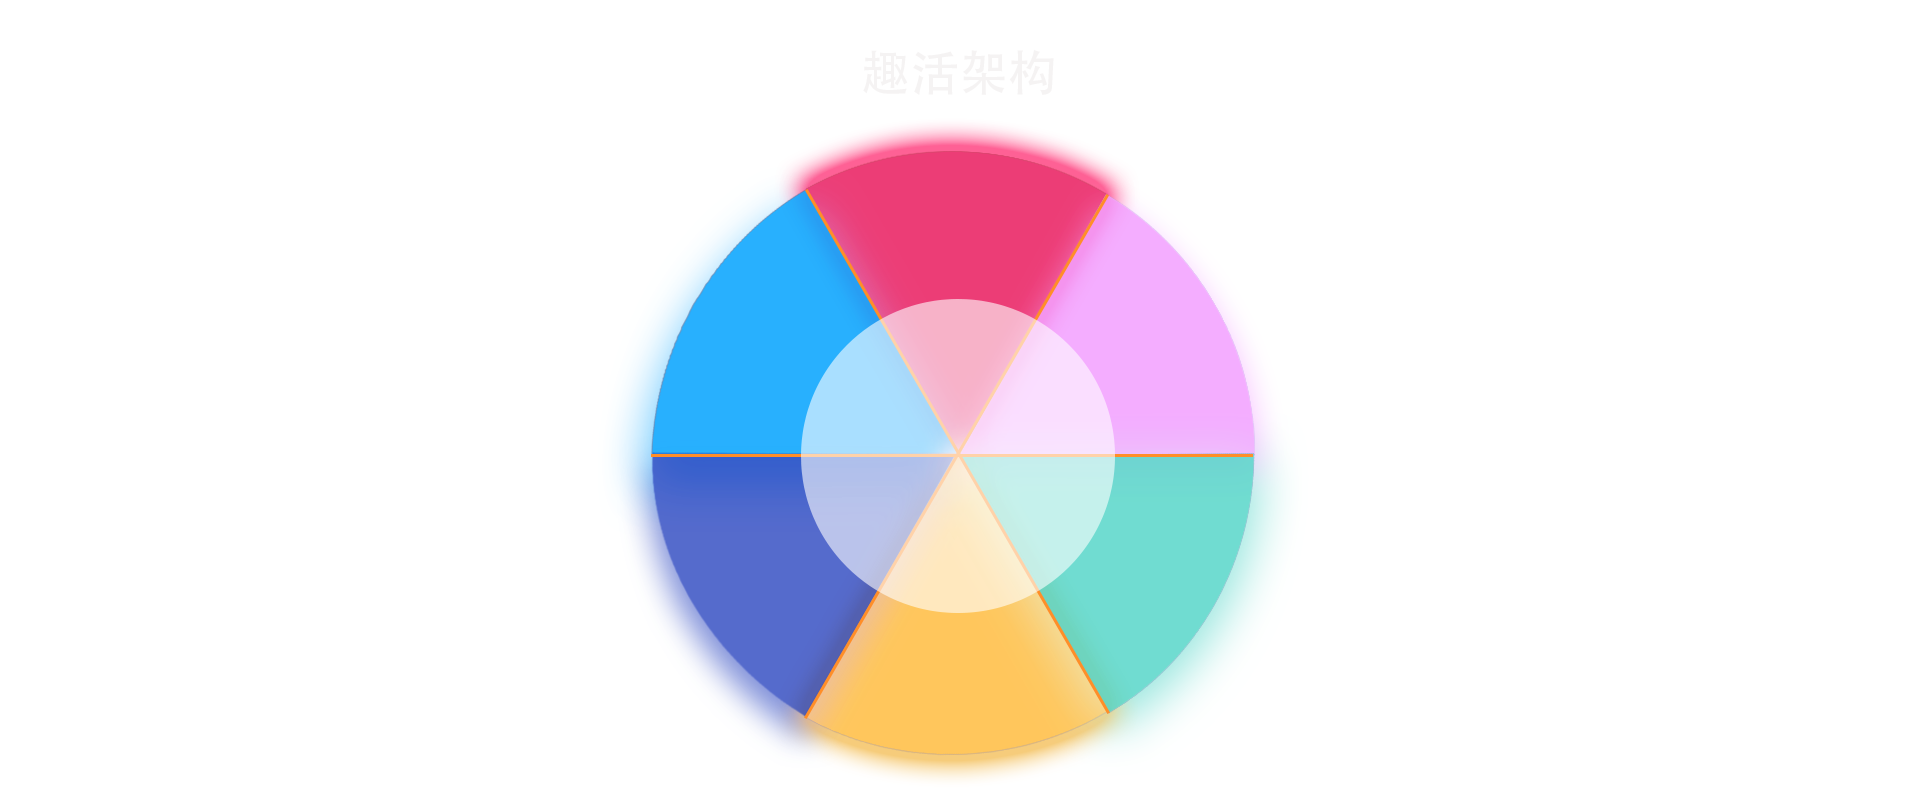
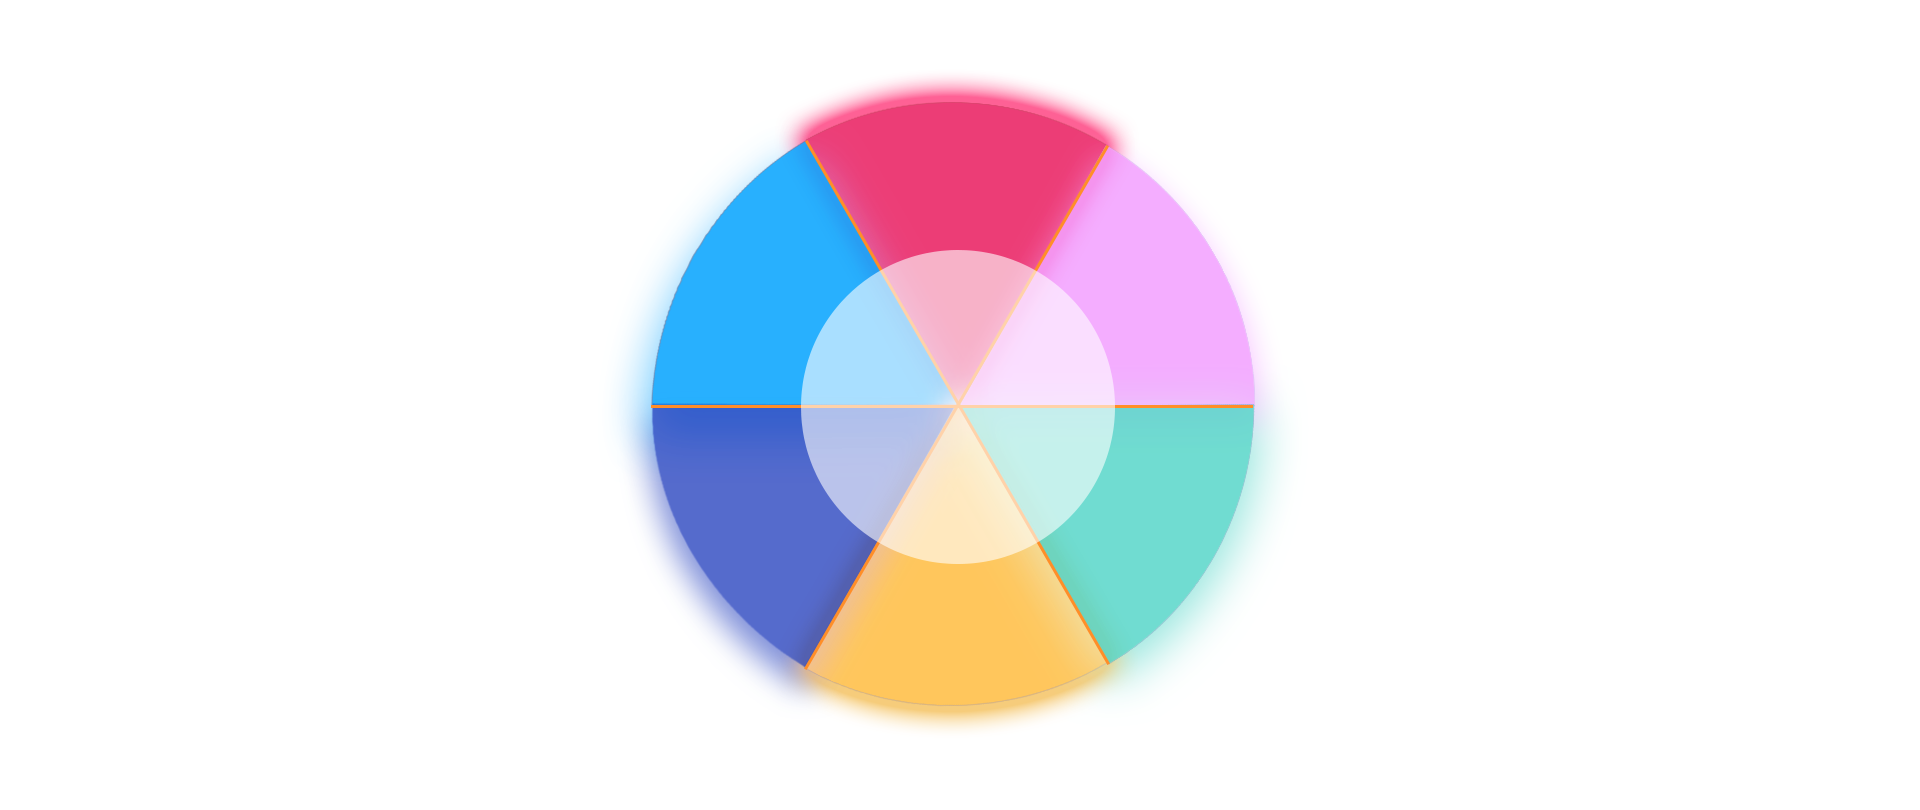
update

Changed region(s): [[0.3125, 0.0926, 0.6875, 0.9568]]

diff --git a/src/components/Architecture.vue b/src/components/Architecture.vue
@@ -4,12 +4,12 @@
       <p class="title">趣活架构</p>
       <div class="pic" style="background: url('static/images/intro/artic.png') no-repeat center center; background-size: cover;">
         <ul class="list">
-          <li v-for="(item, index) in list" :key="index" :style="`left: ${item.left}; top: ${item.top};`" :title="item.name">
+          <li @click="showTitle(item)" v-for="(item, index) in list" :key="index" :style="`left: ${item.left}; top: ${item.top};`" :title="item.title">
             {{item.name}}
-            <div @click="item.titleShow = !item.titleShow" v-show="item.titleShow">
-              {{item.title}}
-            </div>
           </li>
+          <!-- <div class="titleShow" v-for="(val, num) in list" :key="num" :style="`left: ${val.left}; top: ${val.top};`" v-show="titleShow">
+            {{titleDesc}}
+          </div> -->
         </ul>
       </div>
     </div>
@@ -23,18 +23,30 @@ export default {
   data() {
     return {
       isShow: false,
+      titleShow: false,
+      titleDesc: '',
       list: [
-        {name: '内容', left: '47%', top: '23%', title: '资深团队，专业内容', titleShow: false},
-        {name: '设计', left: '57%', top: '39%', title: '专注专向，追求真美', titleShow: false},
-        {name: '运营', left: '57%', top: '65%', title: '活动组织、赛事管理', titleShow: false},
-        {name: '策划', left: '47%', top: '80%', title: '客户至上，定制方案', titleShow: false},
-        {name: '销售', left: '37%', top: '66%', title: '联络客户，把握需求', titleShow: false},
-        {name: '媒介', left: '37%', top: '37%', title: '把控资源，挖掘价值', titleShow: false}
+        {name: '内容', left: '47%', top: '18%', title: '资深团队专业内容', titleLeft: '', titleTop: '', titleShow: false },
+        {name: '设计', left: '58%', top: '33%', title: '专注专向追求真美', titleLeft: '', titleTop: '', titleShow: false },
+        {name: '运营', left: '58%', top: '62%', title: '活动组织赛事管理', titleLeft: '', titleTop: '', titleShow: false },
+        {name: '策划', left: '47%', top: '76%', title: '客户至上定制方案', titleLeft: '', titleTop: '', titleShow: false },
+        {name: '销售', left: '37%', top: '62%', title: '联络客户把握需求', titleLeft: '', titleTop: '', titleShow: false },
+        {name: '媒介', left: '37%', top: '33%', title: '把控资源挖掘价值', titleLeft: '', titleTop: '', titleShow: false }
       ]
     }
   },
   mounted() {
     this.isShow = true;
+  },
+  methods: {
+    showTitle(item) {
+      [this.titleDesc, this.titleShow] = [item.title, true];
+      setTimeout(function () {
+        console.log(1);
+        this.titleDesc = '';
+        this.titleShow = false;
+      }, 2500);
+    }
   }
 }
 </script>
@@ -52,10 +64,11 @@ export default {
       font-size: 60px;
       font-weight: bold;
       color: #ffffff;
+      margin: 2% 0;
     }
     .pic{
       display: inline-block;
-      width: 50%;
+      width: 60%;
       height: 65%;
       position: relative;
     }
@@ -67,6 +80,15 @@ export default {
     .list li:hover{
       font-size: 1.3em;
       color: #ffffff;
+    }
+    .titleShow{
+      position: absolute;
+      font-size: 1.3em;
+      width: 4em;
+      top: 43%;
+      left: 44%;
+      color: #000000;
+      font-weight: bold;
     }
   }
 }

diff --git a/src/components/Resource.vue b/src/components/Resource.vue
@@ -35,20 +35,20 @@ export default {
     return {
       isShow: false,
       listOne: [
-        { name: '电竞活动', left: '78', top: '10' },
-        { name: '电竞媒体', left: '78', top: '30' },
-        { name: '电竞赛事', left: '78', top: '50' },
-        { name: '电竞俱乐部', left: '48', top: '22' },
+        { name: '游戏开发商', left: '78', top: '10' },
+        { name: '游戏代理商', left: '78', top: '35' },
+        { name: '游戏周边', left: '78', top: '60' },
+        { name: '游戏媒体', left: '48', top: '22' },
         { name: '游戏直播平台', left: '48', top: '48' },
-        { name: '电竞媒体', left: '18', top: '35' },
+        { name: '游戏KOL', left: '18', top: '35' },
       ],
       listTwo: [
-        { name: '游戏开发商', left: '5', top: '10' },
-        { name: '游戏代理商', left: '5', top: '30' },
-        { name: '游戏周边', left: '5', top: '50' },
-        { name: '游戏媒体', left: '35', top: '22' },
+        { name: '电竞活动', left: '5', top: '10' },
+        { name: '电竞媒体', left: '5', top: '35' },
+        { name: '电竞赛事', left: '5', top: '60' },
+        { name: '电竞俱乐部', left: '35', top: '22' },
         { name: '游戏直播平台', left: '35', top: '48' },
-        { name: '游戏KOL', left: '65', top: '35' }
+        { name: '电竞媒体', left: '65', top: '35' }
       ]
     }
   },
@@ -78,16 +78,15 @@ export default {
     }
     .title{
       font-size: 60px;
+      margin-top: 2%;
     }
     .desc{
       font-size: 28px;
-    }
-    .title{
-      margin-bottom: 15px;
+      margin-bottom: 5px;
     }
     .detail{
       width: 98%;
-      height: 75%;
+      height: 70%;
       margin: 0 1%;
       text-align: center;
       background-color: rgba(0, 0, 0, .8);

diff --git a/src/components/Case.vue b/src/components/Case.vue
@@ -7,18 +7,18 @@
         <div class="swiper-slide">
           <div class="content">
             <p class="title">精品案例</p>
-              <transition name="fade">
-                <ul class="list" v-show="liShow">
-                    <li v-for="(item ,index) in imgLits" :key="index" @mouseover="item.isShow = true"
-                    @mouseout="item.isShow = false" :style="`left: ${item.left};top: ${item.top};`">
-                        <img :src="`static/images/business/${index + 1}.jpg`"  v-show="!item.isShow"/>
-                        <div class="detail" v-show="item.isShow">
-                            <p>{{item.detail1}}</p>
-                            <p>{{item.detail2}}</p>    
-                        </div>    
-                    </li>
-                </ul>
-              </transition>
+            <transition name="fade">
+              <ul class="list" v-show="liShow">
+                  <li v-for="(item ,index) in imgLits" :key="index" @mouseover="item.isShow = true"
+                  @mouseout="item.isShow = false" :style="`left: ${item.left};top: ${item.top};`">
+                      <img :src="`static/images/business/${index + 1}.jpg`"  v-show="!item.isShow"/>
+                      <div class="detail" v-show="item.isShow">
+                          <p>{{item.detail1}}</p>
+                          <p>{{item.detail2}}</p>    
+                      </div>    
+                  </li>
+              </ul>
+            </transition>
           </div>
         </div>
       </div>

diff --git a/src/components/Index.vue b/src/components/Index.vue
@@ -63,7 +63,7 @@ export default {
 
 <!-- Add "scoped" attribute to limit CSS to this component only -->
 <style lang="less" scoped>
-@heaH: 130px;
+@heaH: 100px;
 .Index{
   a{
     color: #333333;
@@ -78,14 +78,14 @@ export default {
   // 导航条开始
   .navBar{
     width: 100%;
-    height: 130px;
+    height: 100px;
     background-color: #ffffff;
     .bar{
       width: 1200px;
       margin: 0 auto;
       .logo{
-        height: 130px;
-        line-height: 130px;
+        height: 100px;
+        line-height: 100px;
       }
       .logo{
         float: left;
@@ -134,26 +134,27 @@ export default {
   // 内容部分开始
   .content_index{
     // flex: 1;
-    height: calc(100% - 264px);    
+    height: calc(100% - 200px);    
   }
   // 底部开始
   .bottom{
     width: 100%;
-    height: 134px;
+    height: 100px;
     border-top: 1px solid #f39a00;
     background-color: #ffd13d;
     font-size: 14px;
     color: #333333;
     .contact{
       width: 300px;
-      padding-top: 30px;
+      padding-top: 20px;
       margin: 0 auto;
       text-align: center;
       .title{
-        margin-bottom: 20px;
+        margin-bottom: 10px;
+        font-weight: bold;
       }
       .mail, .phone{
-        margin-bottom: 10px;
+        margin-bottom: 5px;
         img{
           width: 15px;
           height: 15px;

diff --git a/src/components/About.vue b/src/components/About.vue
@@ -91,7 +91,6 @@ export default {
   .content{
     width: auto;
     height:100%;
-    padding: 1%;
     z-index: 99;
     text-align: center;
     margin: 0 auto;
@@ -99,13 +98,14 @@ export default {
       font-size: 60px;
       font-weight: bold;
       color: #ffffff;
+      margin: 2% 0;
     }
     .breif{
       height:100%;
       li{
         display: inline-block;
         width: 30%;
-        height: 80%;
+        height: 70%;
         background-color: rgba(0, 0, 0, .6);
         border-radius: 8px;
         .breif_li_one{
@@ -114,8 +114,8 @@ export default {
           height: 100%;
           text-align: center;
           color: #f89b2e;
-          font-size: 66px;
-          padding-top: 18%;
+          font-size: 3.5em;
+          padding-top: 28%;
         }
         .breif_li_two{
           width: 100%;

diff --git a/src/components/Clients.vue b/src/components/Clients.vue
@@ -100,6 +100,7 @@ export default {
     font-size: 48px;
     font-weight: bold;
     color: #ffffff;
+    margin: 2%;
   }
   .carousel{
     width:80%;
@@ -131,7 +132,7 @@ export default {
           width: 22%;
           height:30%;
           margin-bottom: 1%;
-          margin-left: 20px;
+          margin-left: 1%;
           img{
             width: 100%;
             height: 100%;
@@ -150,9 +151,9 @@ export default {
         div{
           display: inline-block;
           width: 18%;
-          height: 25%;
-          margin-bottom: 20px;
-          margin-left: 20px;
+          height: 32%;
+          margin-bottom: 1%;
+          margin-left: 1%;
           img{
             width: 100%;
             height: 100%;

diff --git a/src/components/Business.vue b/src/components/Business.vue
@@ -45,12 +45,14 @@ export default {
     border-radius: 10px;
     .title{
       font-size: 60px;
+      margin: 2% 0;
       font-weight: bold;
       color: #ffffff;
     }
     .image{
-      width: 100%;
-      height: 75%;
+      width: 98%;
+      padding: 0 1%;
+      height: 68%;
       margin: 0 auto;
       img{
         width: 100%;

diff --git a/src/components/Contact.vue b/src/components/Contact.vue
@@ -59,12 +59,12 @@ export default {
     ul{
       width: 100%;
       height: 40%;
-      margin-top: 5%;
+      margin-top: 3%;
       li{
         float: left;
         width: 32%;
         height: 42%;
-        padding-top: 6%;
+        padding: 6% 0;
         margin-left: 1%;
         p{
           line-height: 28px;
